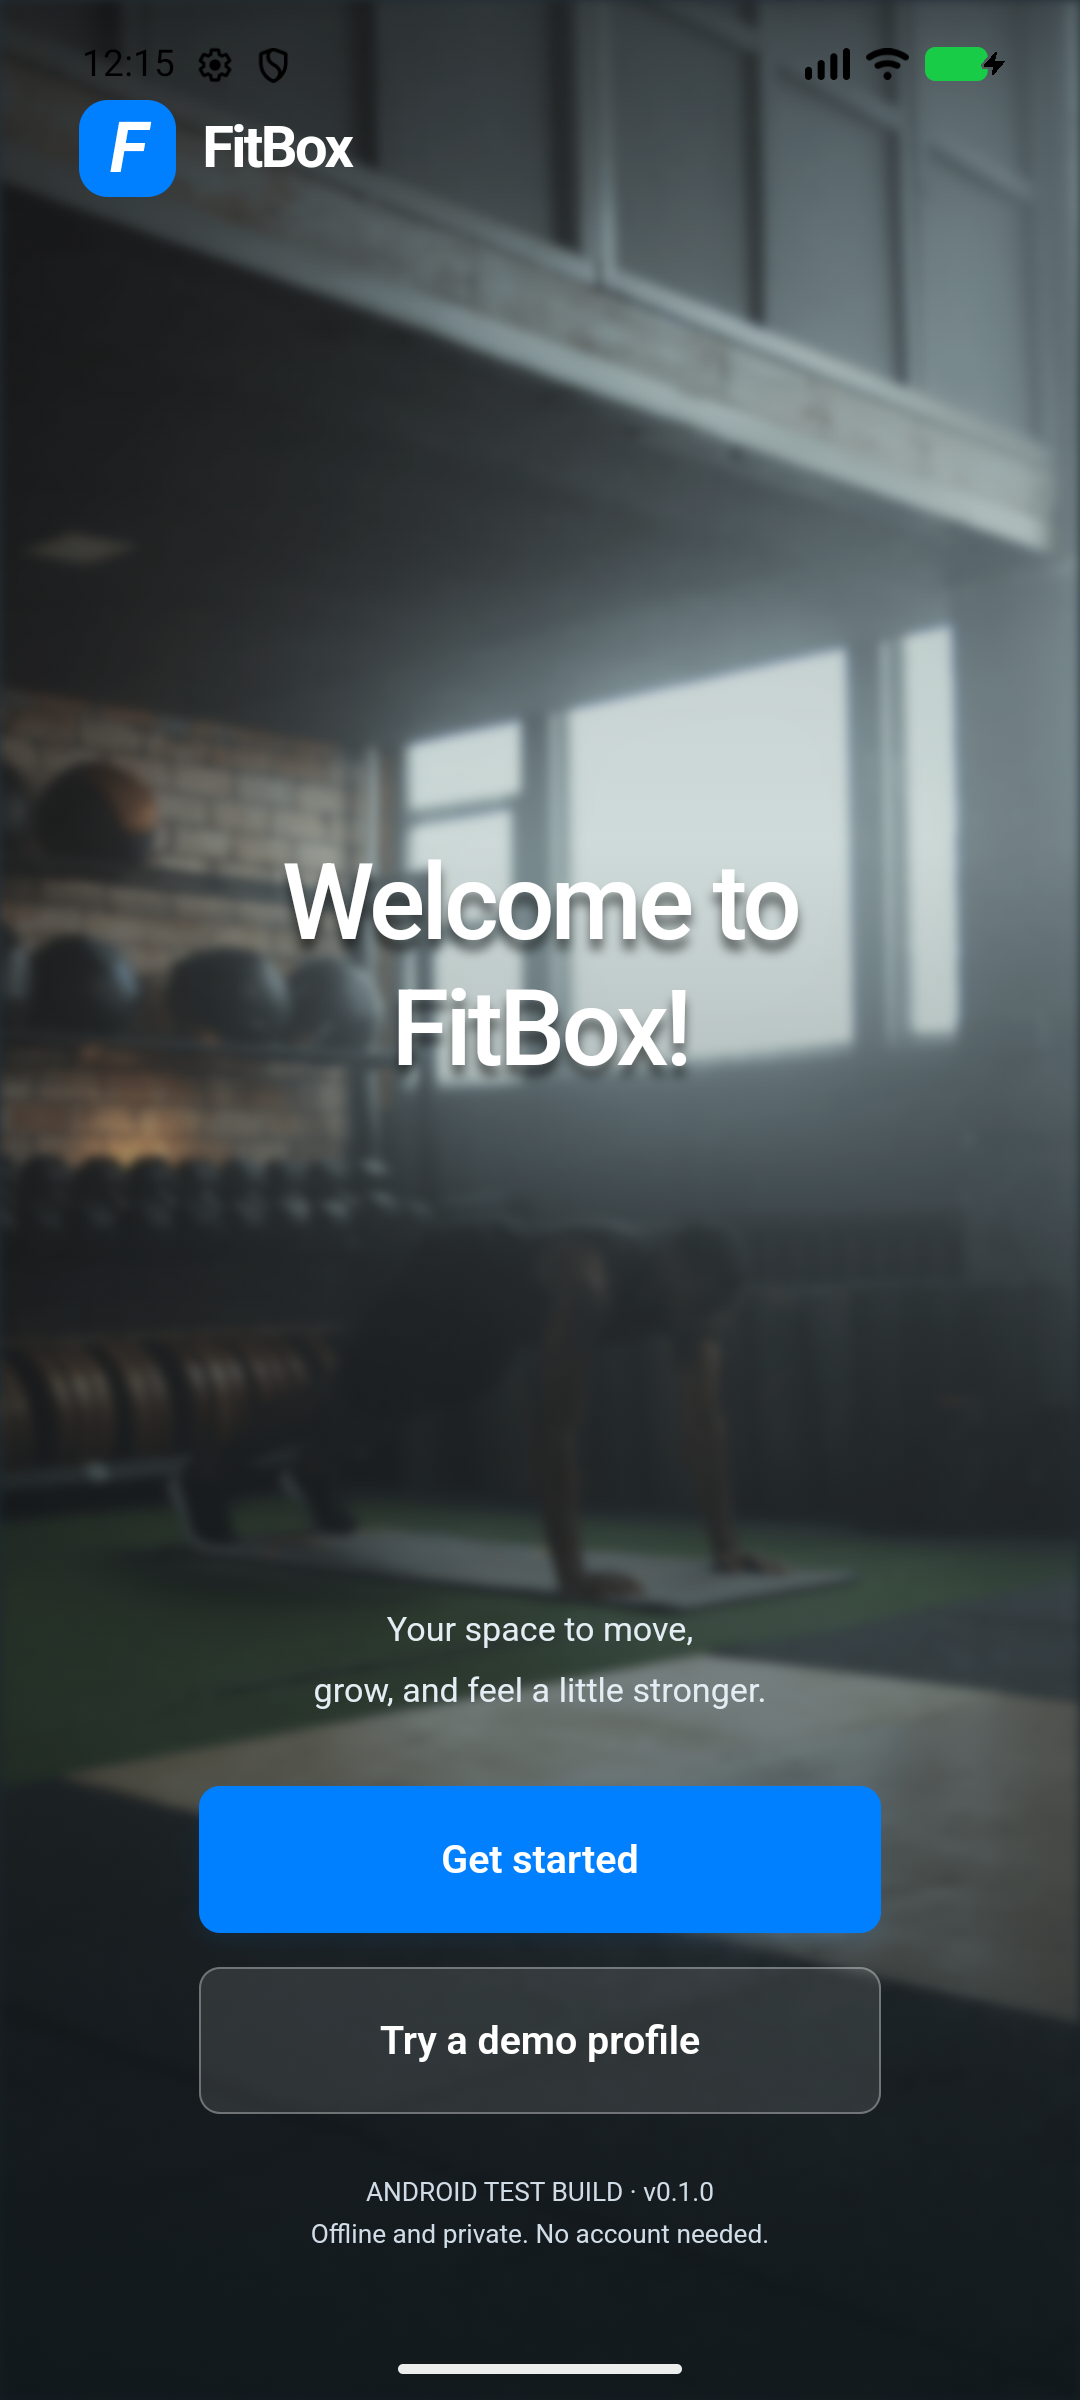
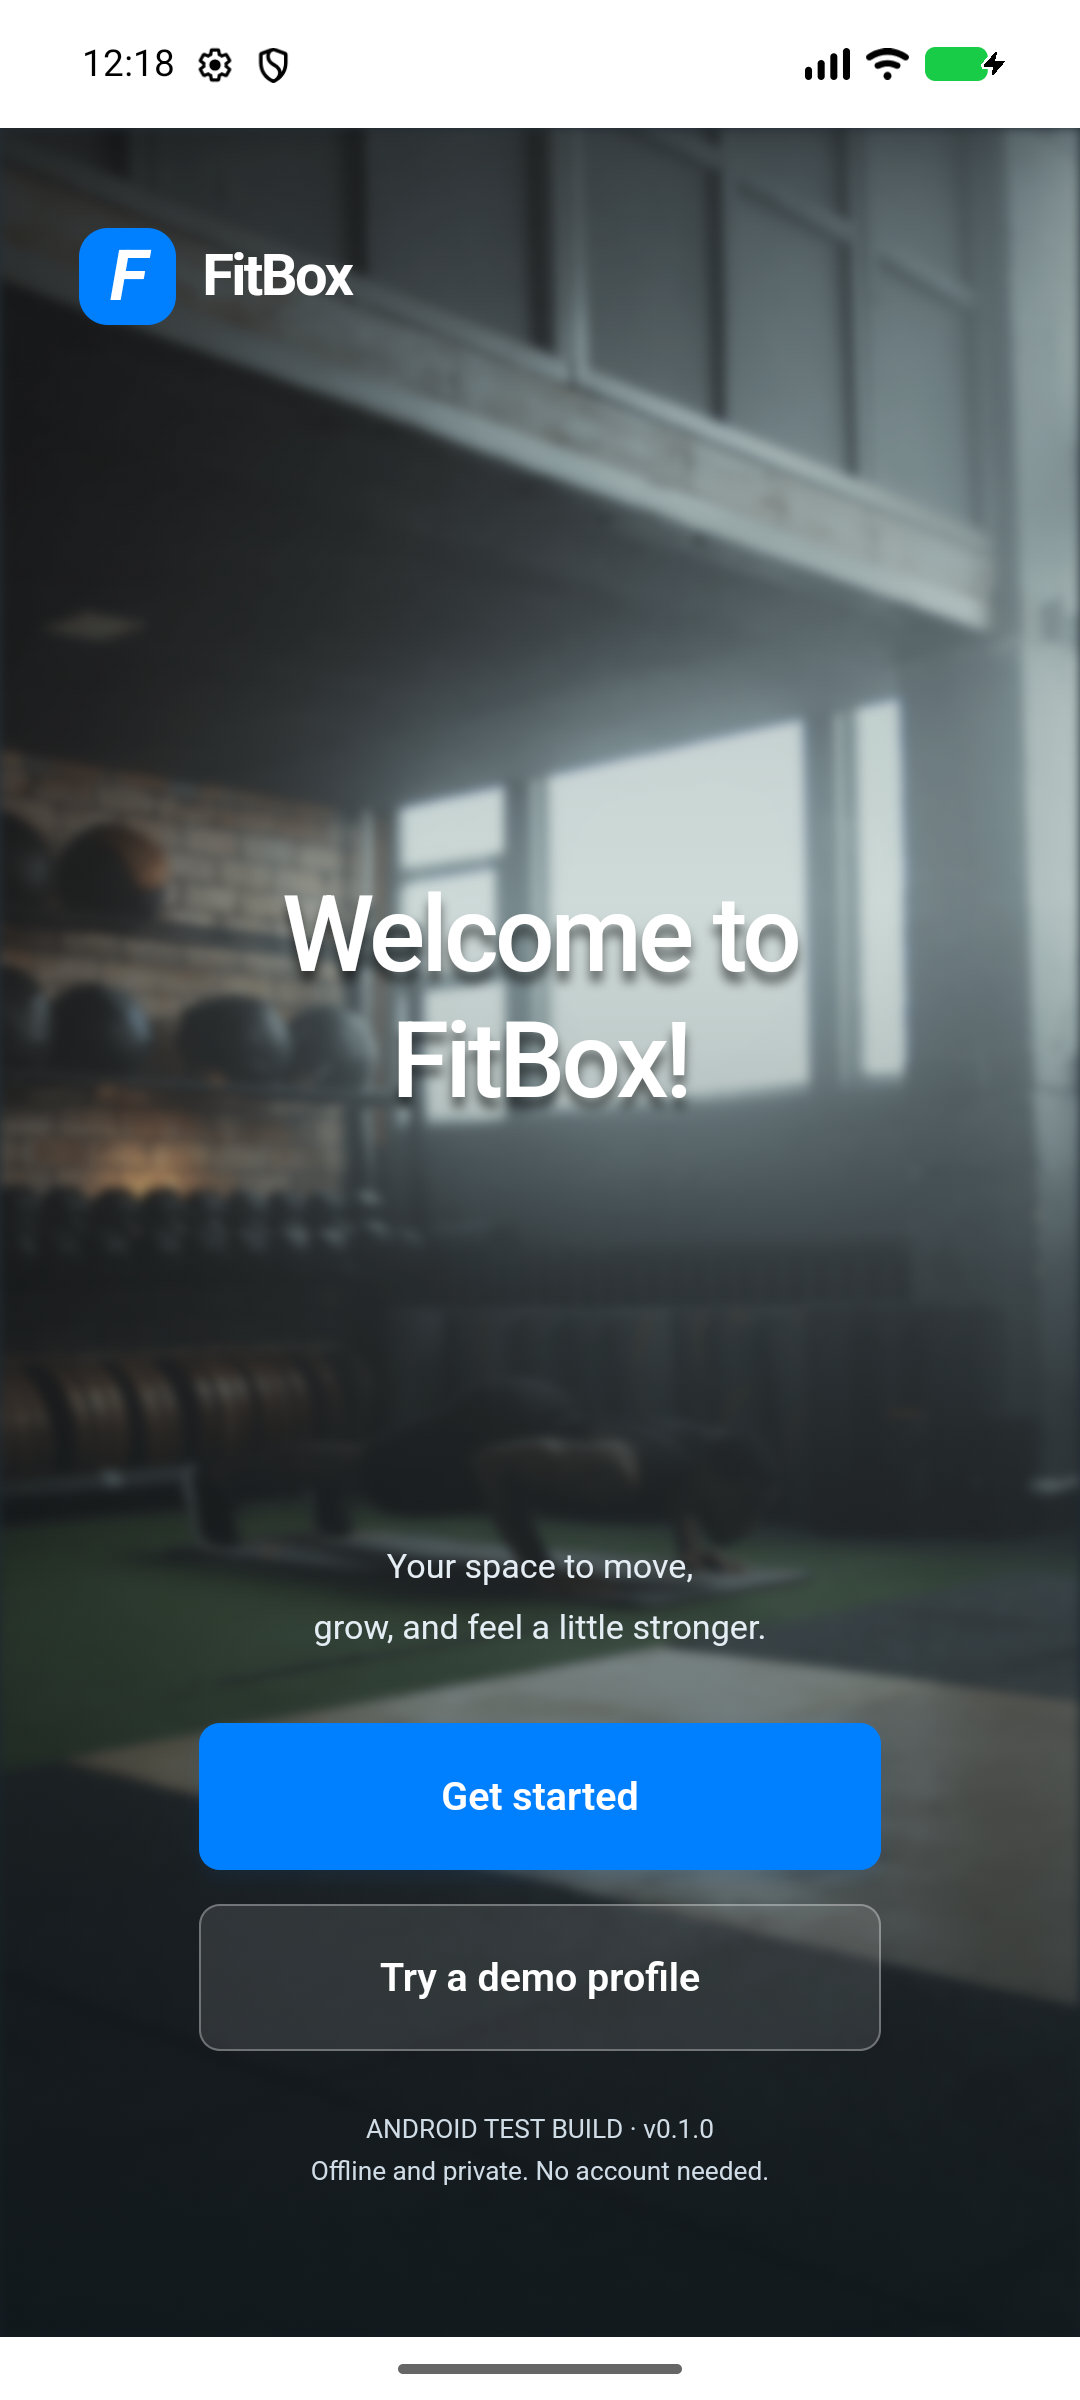
Publish deployment links, Android screenshots and validation; fix native system insets

diff --git a/web/index.html b/web/index.html
@@ -1,2 +1,2 @@
 <!doctype html>
-<html lang="en"><head><meta charset="utf-8"><meta name="viewport" content="width=device-width,initial-scale=1,viewport-fit=cover"><meta name="theme-color" content="#007fff"><meta name="description" content="FitBox — your home fitness companion. Track workouts, build habits, and see your progress. Android test app and interactive web preview."><title>FitBox — Your fitness, one rep at a time</title><link rel="icon" href="icon.svg" type="image/svg+xml"><link rel="stylesheet" href="styles.css"></head><body><aside class="desktop-story"><a class="wordmark" href="#"><span class="brand-icon">F</span>FitBox<span class="version">EARLY ACCESS</span></a><div class="story-copy"><div class="eyebrow">YOUR SPACE. YOUR PACE.</div><h1>A little effort.<br>A stronger <em>you.</em></h1><p>Your home fitness journey, brought together.<br>Move with purpose. Build a habit. See your progress.</p><div class="story-tags"><span>BODYWEIGHT TRAINING</span><span>BUILT AROUND YOU</span></div></div><div class="story-bottom"><span>Fitness, one rep at a time.</span><a href="downloads/FitBox-debug.apk" id="apk-link">Get Android APK ↗</a></div></aside><div class="app-shell"><div id="app"></div><div id="toast" role="status" aria-live="polite"></div><div id="modal-root"></div></div><script src="core.js"></script><script src="app.js"></script></body></html>
+<html lang="en"><head><meta charset="utf-8"><meta name="viewport" content="width=device-width,initial-scale=1,viewport-fit=cover"><meta name="theme-color" content="#007fff"><meta name="description" content="FitBox — your home fitness companion. Track workouts, build habits, and see your progress. Android test app and interactive web preview."><title>FitBox — Your fitness, one rep at a time</title><link rel="icon" href="icon.svg" type="image/svg+xml"><link rel="stylesheet" href="styles.css"></head><body><aside class="desktop-story"><a class="wordmark" href="#"><span class="brand-icon">F</span>FitBox<span class="version">EARLY ACCESS</span></a><div class="story-copy"><div class="eyebrow">YOUR SPACE. YOUR PACE.</div><h1>A little effort.<br>A stronger <em>you.</em></h1><p>Your home fitness journey, brought together.<br>Move with purpose. Build a habit. See your progress.</p><div class="story-tags"><span>BODYWEIGHT TRAINING</span><span>BUILT AROUND YOU</span></div></div><div class="story-bottom"><span>Fitness, one rep at a time.</span><a href="https://github.com/vams2krish/fitbox-fitness-iot/releases/download/v0.1.0/FitBox-debug.apk" id="apk-link">Get Android APK ↗</a></div></aside><div class="app-shell"><div id="app"></div><div id="toast" role="status" aria-live="polite"></div><div id="modal-root"></div></div><script src="core.js"></script><script src="app.js"></script></body></html>

diff --git a/android/app/src/main/java/com/fitbox/app/MainActivity.java b/android/app/src/main/java/com/fitbox/app/MainActivity.java
@@ -9,6 +9,7 @@ import android.webkit.JavascriptInterface;
 import android.net.Uri;
 import android.content.Intent;
 import android.view.View;
+import android.widget.FrameLayout;
 
 public class MainActivity extends Activity {
     private WebView web;
@@ -44,14 +45,17 @@ public class MainActivity extends Activity {
                 return true;
             }
         });
+        FrameLayout container = new FrameLayout(this);
+        container.setBackgroundColor(0xFFFFFFFF);
+        container.addView(web, new FrameLayout.LayoutParams(-1, -1));
         if (android.os.Build.VERSION.SDK_INT >= 35) {
-            web.setOnApplyWindowInsetsListener((view, insets) -> {
+            container.setOnApplyWindowInsetsListener((view, insets) -> {
                 android.graphics.Insets bars = insets.getInsets(android.view.WindowInsets.Type.systemBars());
                 view.setPadding(bars.left, bars.top, bars.right, bars.bottom);
                 return insets;
             });
         }
-        setContentView(web);
+        setContentView(container);
         web.loadUrl("file:///android_asset/index.html");
     }
     @Override public void onBackPressed() { web.evaluateJavascript("window.fitboxBack && window.fitboxBack()", null); }

diff --git a/docs/VALIDATION.md b/docs/VALIDATION.md
@@ -1,0 +1,35 @@
+# Validation record
+
+Verified on November 17, 2026.
+
+## Automated checks
+
+| Check | Result |
+| --- | --- |
+| JavaScript syntax | Passed `node --check web/app.js` |
+| Core test suite | 6 tests passed, 0 failed |
+| Browser end-to-end flow | Passed `node tools/test-ui.mjs` |
+| Screenshots | 14 browser captures plus Android emulator captures |
+| Asset loading | Every visible `<img>` in tested screens loaded with nonzero dimensions |
+| Responsive layout | No document horizontal overflow at tested phone and desktop widths |
+| Android build | `assembleDebug` succeeded with JDK 17, AGP 8.12.2, Gradle 8.14.3 |
+| APK signing | `apksigner verify` succeeded |
+| Android installation | `adb install -r` succeeded on API 36.1 emulator |
+| Android launch | MainActivity resumed; welcome and local demo dashboard rendered |
+| Web deployment | Vercel production deployment reached READY; public root returned HTTP 200 |
+
+The browser suite exercises the actual UI: onboarding through all preference steps, front/back anatomy, empty-state insights, manual repetition entry and undo, active timer pause/resume, save and claim, persistence after reload, guides, profile, device status, rest day, JSON export, timed meditation, reset confirmation cancellation, and completed reset. It checks that no uncaught browser page errors occurred.
+
+Core tests cover plan scaling, cumulative partial sessions, claim eligibility and duplicate prevention, duplicate session IDs, invalid values, timed-task progress, calendar-day streaks, rest-day behavior, and corrupted storage recovery.
+
+## Practical limits
+
+- Browser flow testing is automated in Chromium. Native Android coverage is an emulator smoke test, not the same full automated browser suite.
+- No physical phone or dedicated FitBox hardware was connected.
+- Bluetooth transport and computer vision are not implemented or tested.
+- The Android share flow is implemented; selection of a real recipient or storage destination is left to the user.
+- There is no cross-device sync, encrypted application database, production account system, or server-side reward validation.
+- No accessibility certification, exercise/clinical validation, battery benchmark, or broad Android device matrix is claimed.
+- The APK is debug signed. A production store release requires separate release signing and distribution preparation.
+
+The APK checksum is published beside the binary in the GitHub release.

diff --git a/README.md b/README.md
@@ -12,7 +12,7 @@ FitBox is an offline-first home fitness companion, built from the supplied FitBo
 | Try it | Link |
 | --- | --- |
 | Android test APK | [Download FitBox v0.1.0](https://github.com/vams2krish/fitbox-fitness-iot/releases/download/v0.1.0/FitBox-debug.apk) |
-| Interactive web preview | Deployment link will be added after verification. |
+| Interactive web preview | [Open FitBox on Vercel](https://fitbox-fitness-iot.vercel.app) |
 | Design reference | [Original FitBox Figma prototype](https://www.figma.com/proto/7vS0ax0bayEIE4QrXlBjsQ/FitBox-App?node-id=364-3661) |
 | Source | [Public GitHub repository](https://github.com/vams2krish/fitbox-fitness-iot) |
 
@@ -38,6 +38,10 @@ These are actual screenshots of the implemented app, captured during automated b
   <tr><th>Rest day</th><th colspan="2">Desktop web preview</th></tr>
   <tr><td><img src="docs/screenshots/13-rest-day.png" width="240" alt="Rest day experience"></td><td colspan="2"><img src="docs/screenshots/14-desktop-preview.png" width="520" alt="Responsive FitBox desktop preview"></td></tr>
 </table>
+
+### Android emulator screenshots
+
+<p><img src="docs/screenshots/15-android-welcome.png" width="260" alt="FitBox welcome running in Android"><img src="docs/screenshots/16-android-home.png" width="260" alt="FitBox home dashboard running in Android"></p>
 
 ## Working features
 
